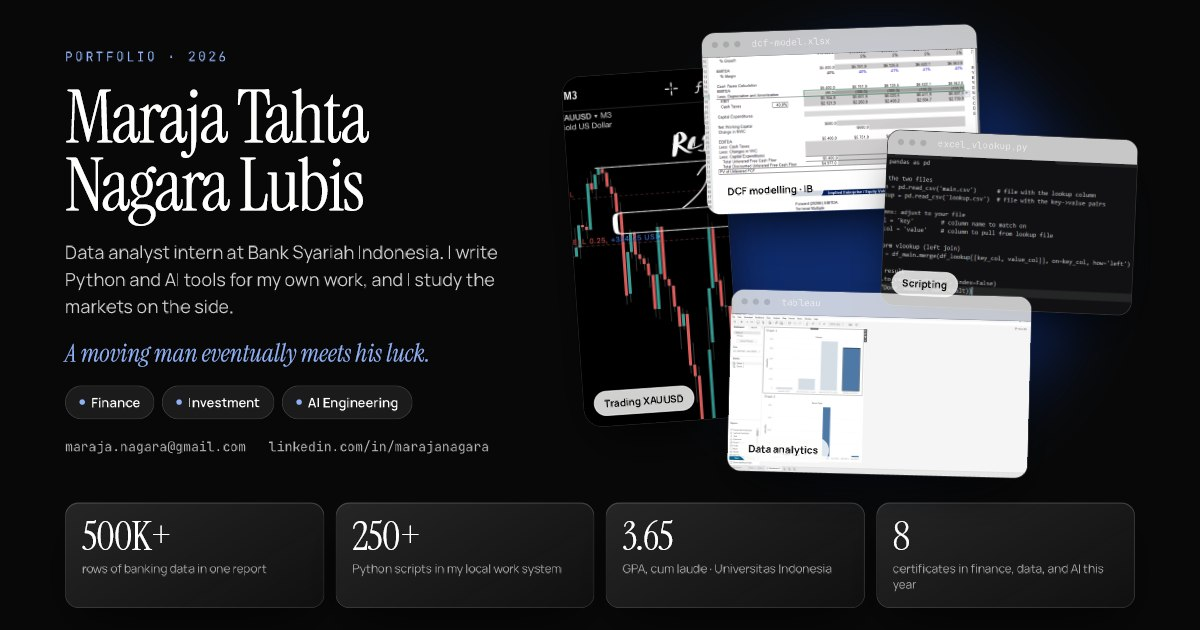
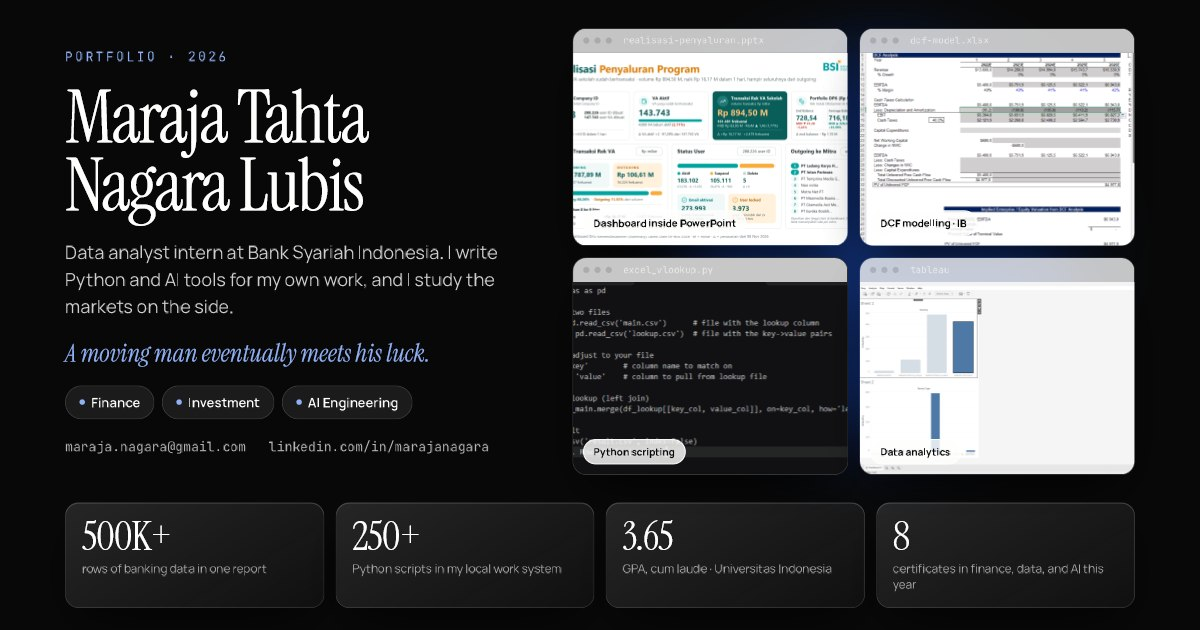
Add files via upload

Changed region(s): [[0.4625, 0.0302, 0.9558, 0.754], [0.8017, 0.754, 0.8325, 0.7841]]

diff --git a/index.html b/index.html
@@ -196,19 +196,20 @@
         <a href="https://linkedin.com/in/marajanagara" target="_blank">linkedin.com/in/marajanagara</a>
       </div>
     </div>
-    <div style="position:relative;min-width:0">
-      <div class="frame" style="position:absolute;left:0;top:70px;width:250px;height:560px;transform:rotate(-4deg);z-index:1;border-radius:30px;background:#000">
-        <image-slot id="act-trading-xau" src="assets/activity/trading-xauusd.jpg" fit="cover" shape="rect" placeholder="Trading XAUUSD"></image-slot><span class="tag">Trading XAUUSD</span>
+    <div style="display:grid;grid-template-columns:1fr 1fr;grid-template-rows:1fr 1fr;gap:18px;min-width:0;min-height:0">
+      <div class="frame win">
+        <div class="bar"><i></i><i></i><i></i><em>realisasi-penyaluran.pptx</em></div>
+        <div class="fill"><image-slot id="act-bsi-dash" src="assets/bsi-powerpoint-dashboard.png" fit="cover" shape="rect" placeholder="Dashboard inside PowerPoint"></image-slot><span class="tag">Dashboard inside PowerPoint</span></div>
       </div>
-      <div class="frame win" style="position:absolute;left:210px;top:0;width:440px;height:290px;transform:rotate(-2deg);z-index:2">
+      <div class="frame win">
         <div class="bar"><i></i><i></i><i></i><em>dcf-model.xlsx</em></div>
-        <div class="fill"><image-slot id="act-dcf" src="assets/dcf-modeling-task-example.png" fit="cover" shape="rect" placeholder="DCF model"></image-slot><span class="tag">DCF modelling · IB</span></div>
+        <div class="fill"><image-slot id="act-dcf" src="assets/dcf-modeling-task-example.png" fit="cover" shape="rect" placeholder="DCF modelling · IB"></image-slot><span class="tag">DCF modelling · IB</span></div>
       </div>
-      <div class="frame win" style="position:absolute;right:0;top:170px;width:400px;height:280px;transform:rotate(2.5deg);z-index:3;background:#1f1f1f">
+      <div class="frame win" style="background:#1f1f1f">
         <div class="bar"><i></i><i></i><i></i><em>excel_vlookup.py</em></div>
-        <div class="fill"><image-slot id="act-scripting" src="assets/new/python-excel-vlookup-script.png" fit="cover" shape="rect" placeholder="Scripting"></image-slot><span class="tag">Scripting</span></div>
+        <div class="fill"><image-slot id="act-scripting" src="assets/new/python-excel-vlookup-script.png" fit="cover" shape="rect" placeholder="Python scripting"></image-slot><span class="tag">Python scripting</span></div>
       </div>
-      <div class="frame win" style="position:absolute;left:250px;bottom:0;width:480px;height:290px;transform:rotate(1.5deg);z-index:4">
+      <div class="frame win">
         <div class="bar"><i></i><i></i><i></i><em>tableau</em></div>
         <div class="fill"><image-slot id="act-analytics" src="assets/tableau-task-example.png" fit="cover" shape="rect" placeholder="Data analytics"></image-slot><span class="tag">Data analytics</span></div>
       </div>
